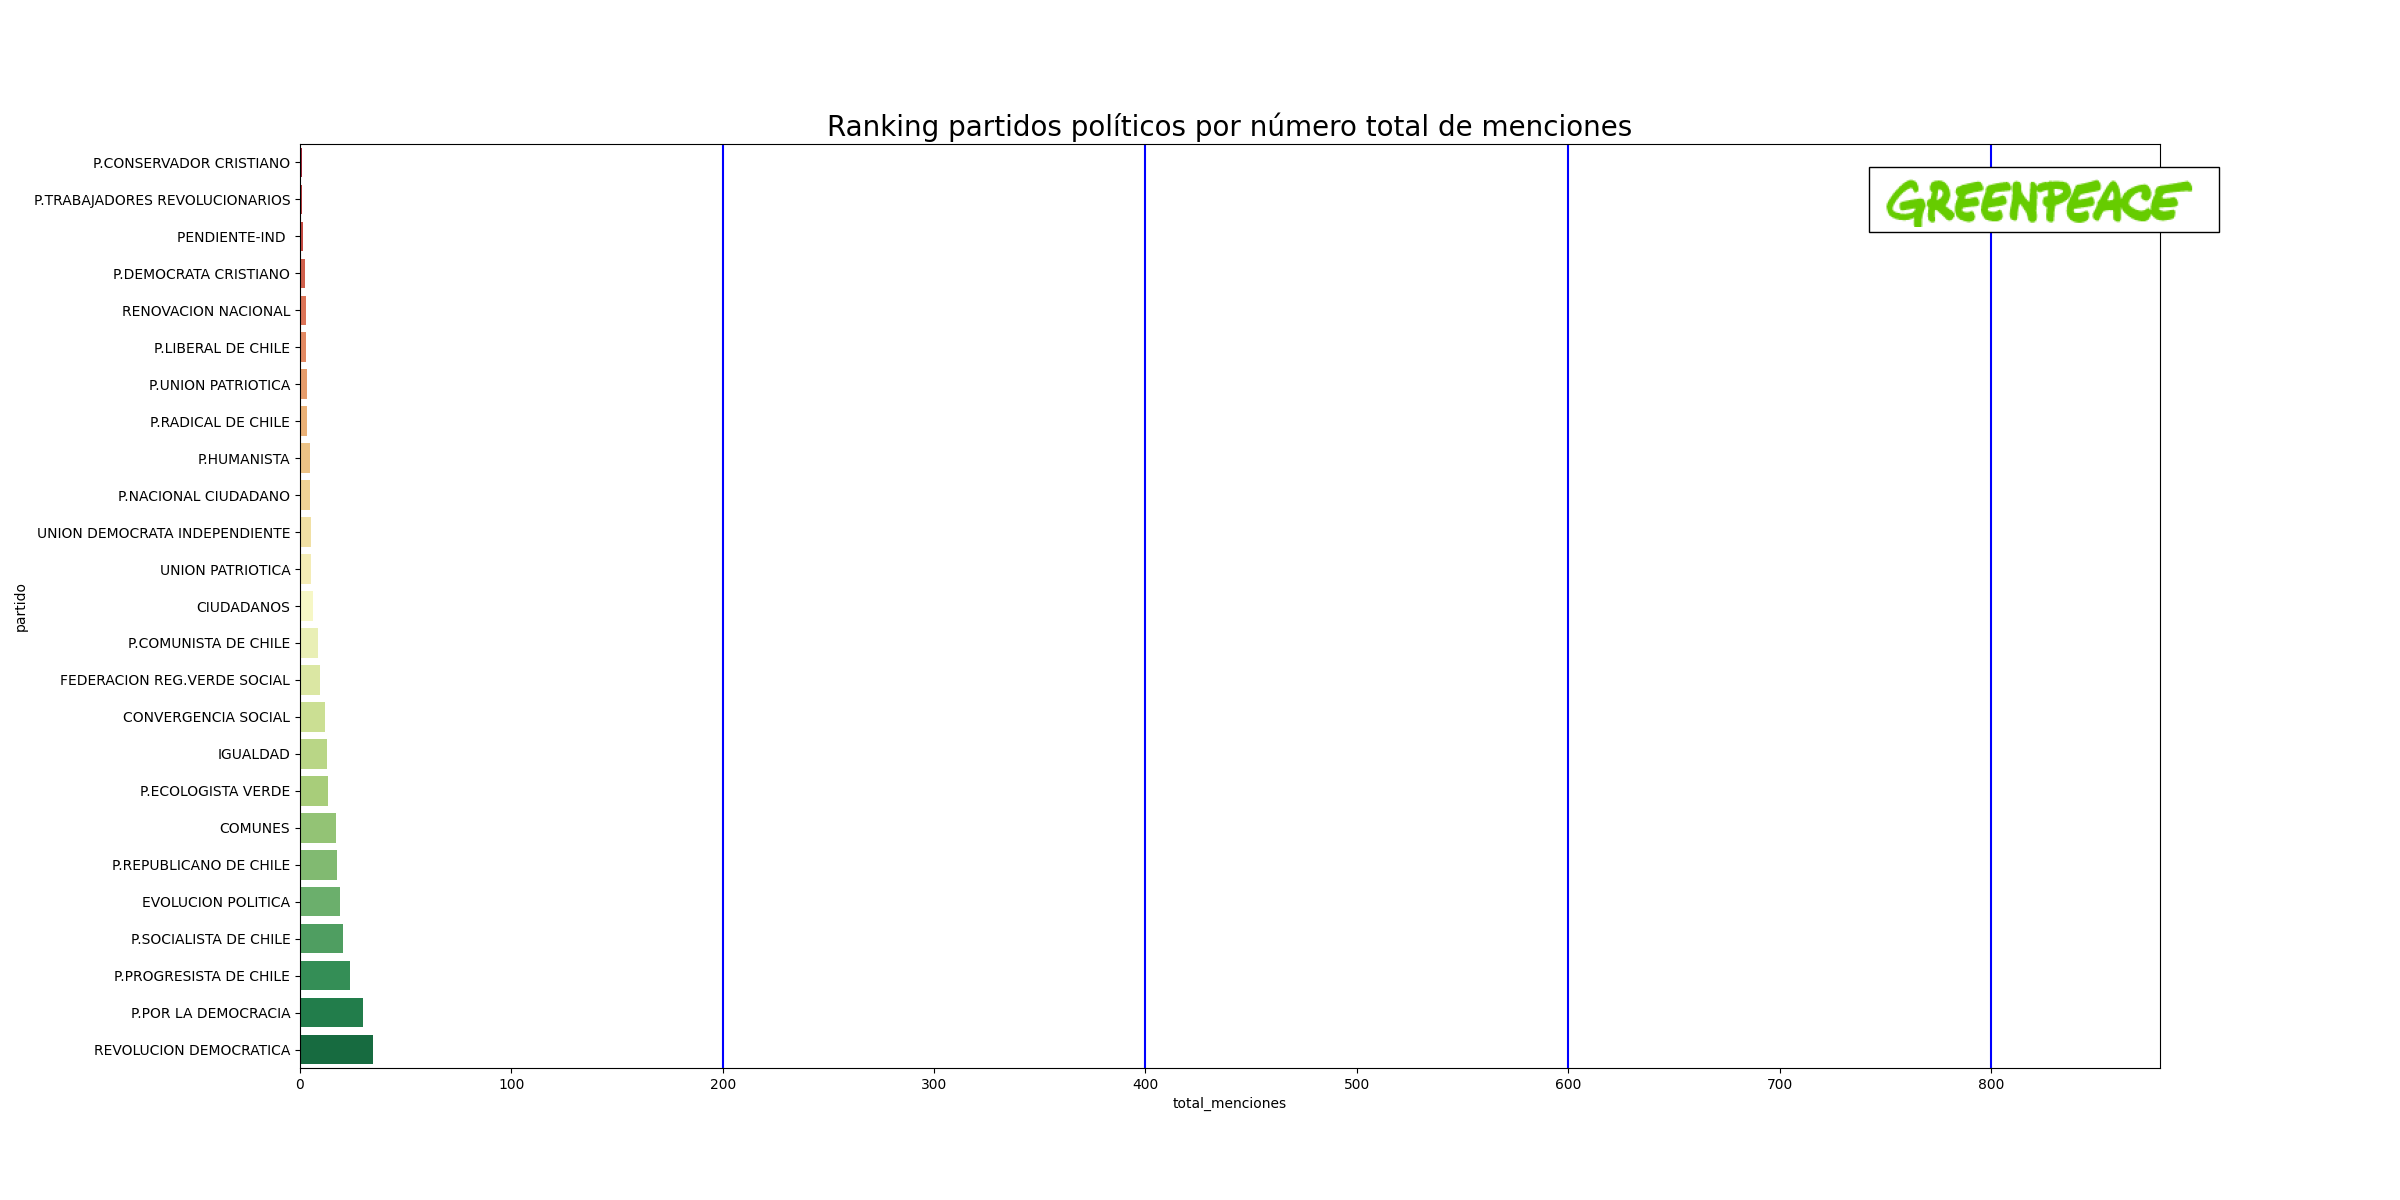
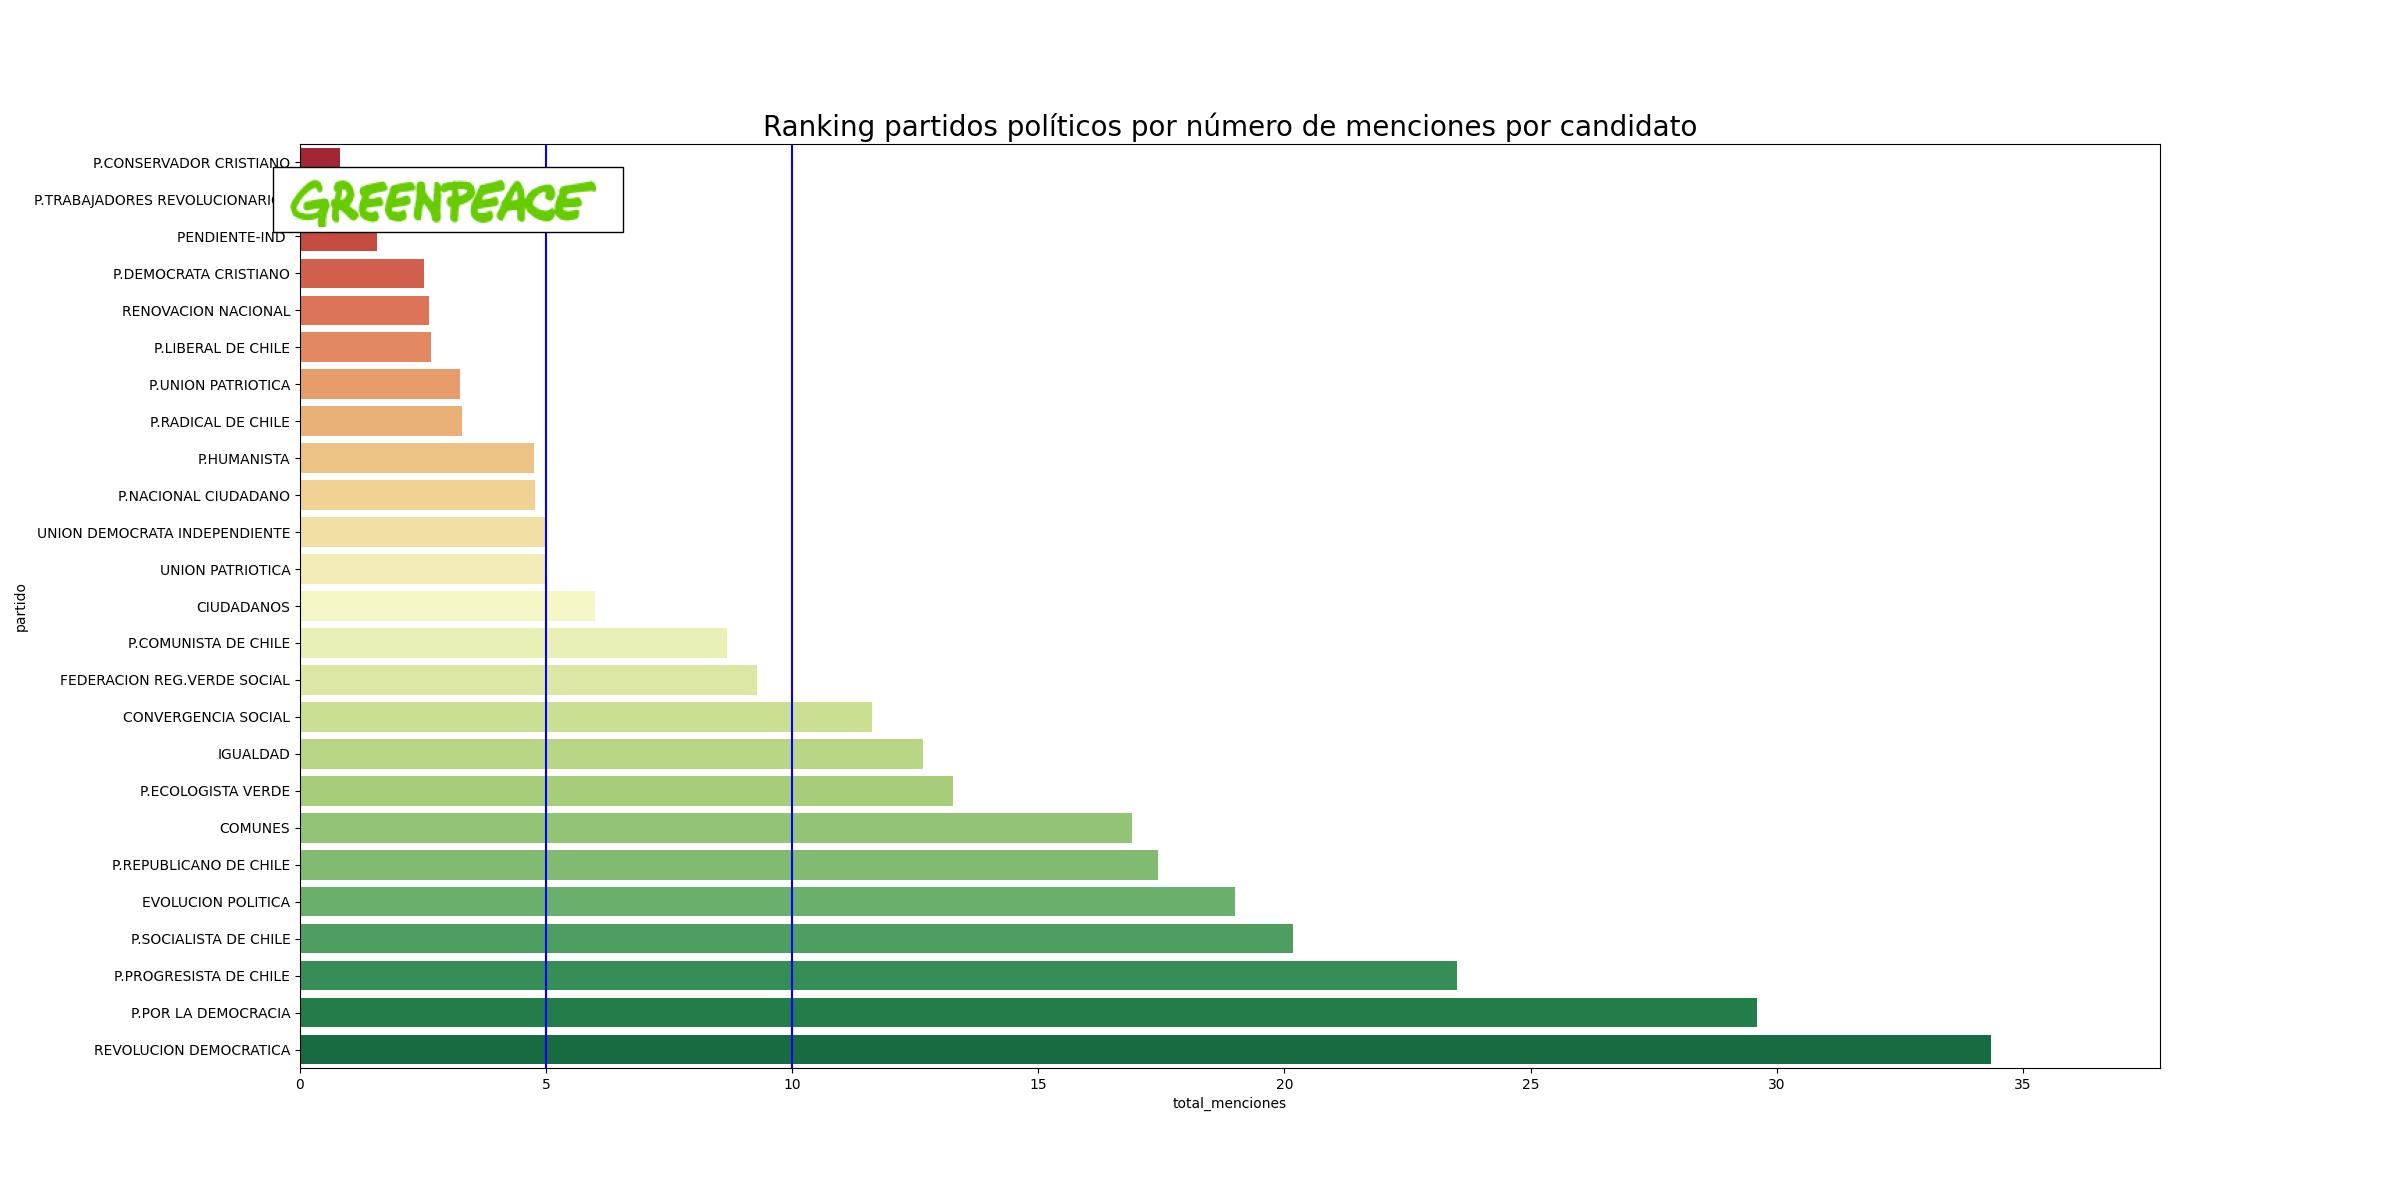
normalizado ranking partidos

Changed region(s): [[0.0938, 0.1233, 0.8438, 0.8942], [0.3125, 0.0925, 0.7188, 0.1233], [0.7812, 0.1233, 0.9062, 0.2158]]

diff --git a/plotters.py b/plotters.py
@@ -367,17 +367,19 @@ ts = tdf.groupby('partido').sum().sum(axis=1).sort_values().reset_index()
 ts.columns = ['partido','total_menciones']
 ts = ts[ts.total_menciones>0]
 fig,ax = plt.subplots(1, figsize=(24,12))
-sns.barplot(x='total_menciones', data=ts.sort_values('total_menciones'), y='partido', palette='RdYlGn');
-for xx in range(200,1000,200):
+sns.barplot(x='total_menciones', 
+            data=ts.sort_values('total_menciones'), 
+            y='partido', palette='RdYlGn');
+for xx in (5,10):
     plt.axvline(x=xx, color='blue')
 plt.margins(x=0.1)
 
 arr_lena = mpimg.imread('greenpeace.png')
 imagebox = OffsetImage(arr_lena, zoom=1.0)
-ab = AnnotationBbox(imagebox, (825, 1.0))
+ab = AnnotationBbox(imagebox, (3, 1.0))
 ax.add_artist(ab)
 #################
-plt.title('Ranking partidos políticos por número total de menciones', size=20)
+plt.title('Ranking partidos políticos por número de menciones por candidato', size=20)
 plt.savefig('static/ranking.png')
 plt.close()
 ##################
